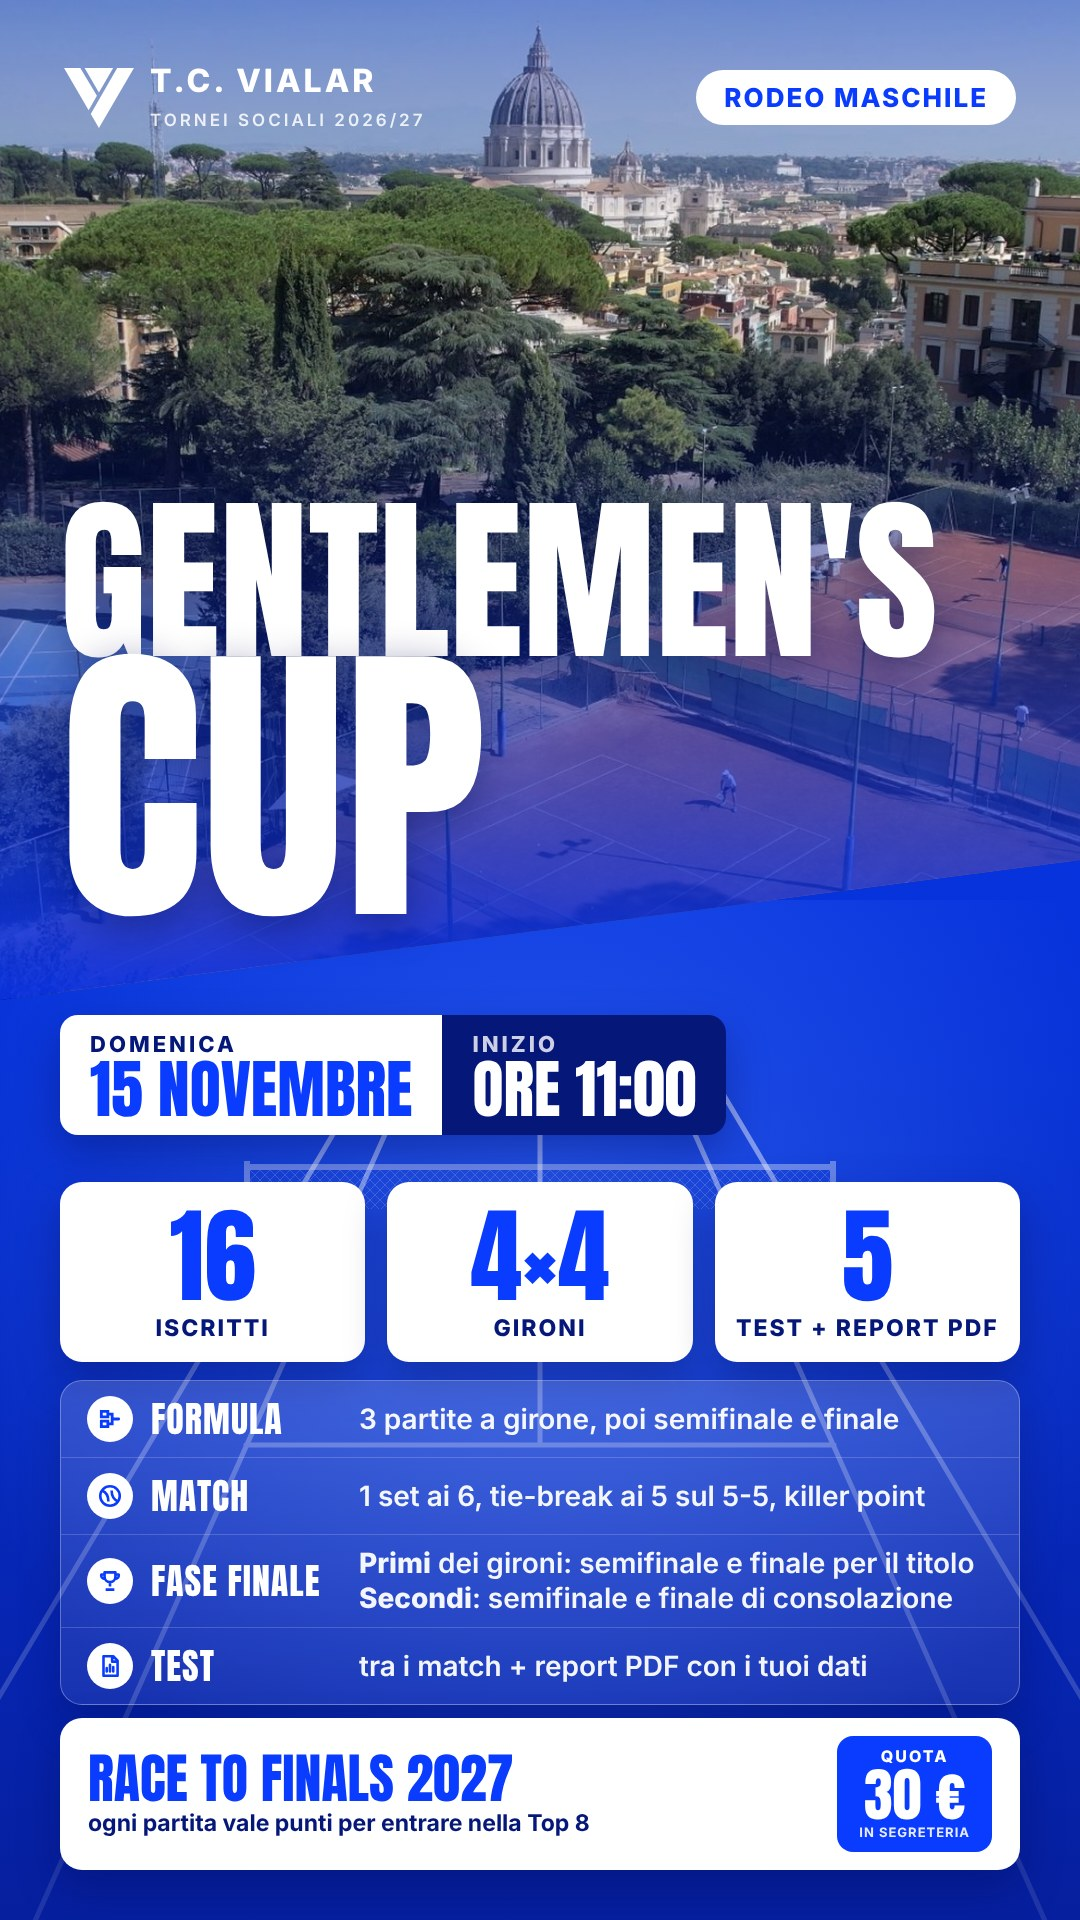
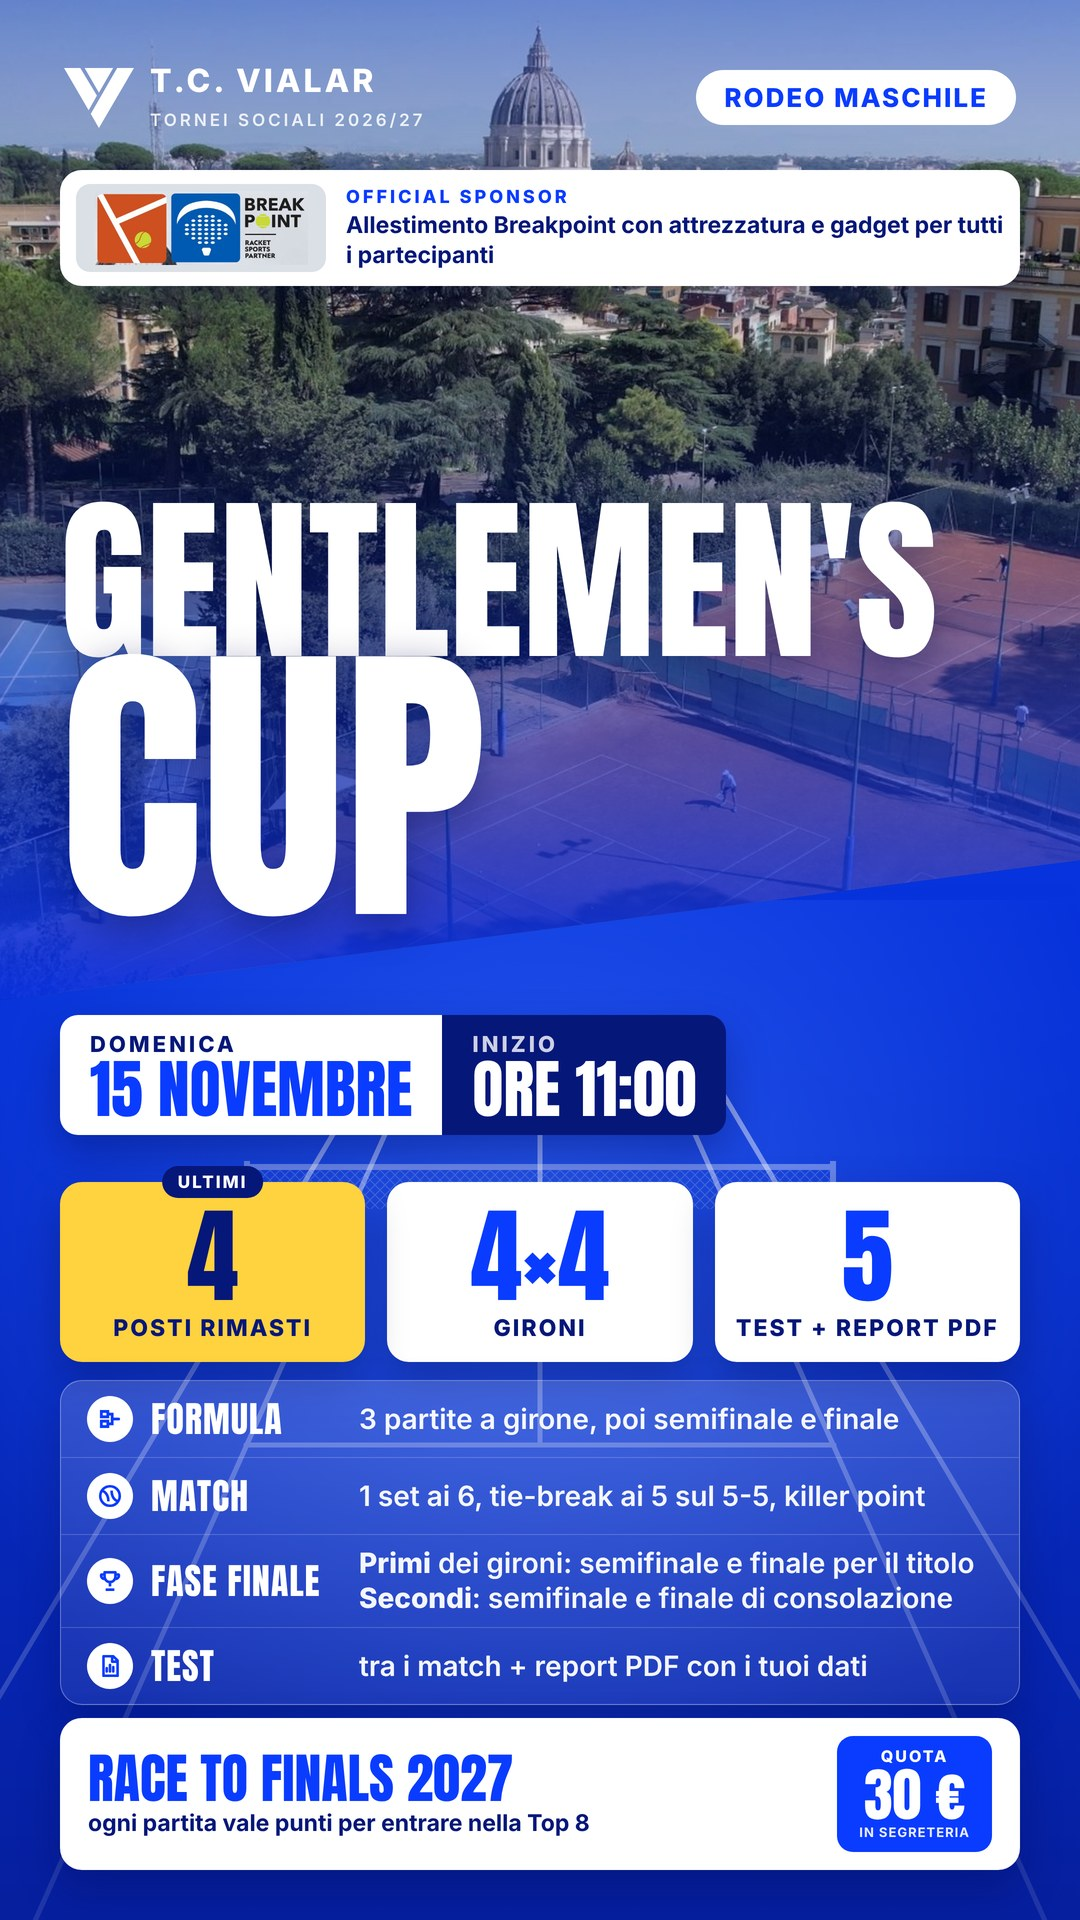
Bacheca: Gentlemen's Cup con Breakpoint official sponsor e ultimi 4 posti
Claude-Session: https://claude.ai/code/session_01RiKwXihvqRZeSTtiQ2PmUk

Changed region(s): [[0.0306, 0.0625, 0.9472, 0.1562], [0.0306, 0.5938, 0.3361, 0.7188]]

diff --git a/index.html b/index.html
@@ -499,8 +499,8 @@ const BACHECA = {
       tipo: "testo", finoAl: "2026-11-15", durata: 15,
       kicker: "Domenica 15 novembre · ore 11:00",
       titolo: "Gentlemen's Cup",
-      testo: "Il rodeo maschile: 4 gironi da 4, poi semifinale e finale. I primi giocano per il titolo, i secondi per la consolazione. Ogni partita vale punti per la Race to Finals 2027. Iscrizioni in segreteria.",
-      chips: ["1 set · killer point", "5 test + report PDF", "Quota 30 €"],
+      testo: "Il rodeo maschile con Breakpoint official sponsor: allestimento con attrezzatura e gadget per tutti i partecipanti. Ogni partita vale punti per la Race to Finals 2027. Ultimi 4 posti: iscriviti in segreteria!",
+      chips: ["Ultimi 4 posti", "Official sponsor Breakpoint", "Quota 30 €"],
       immagine: "assets/locandine/gentlemens-cup.jpg"
     },
     {
